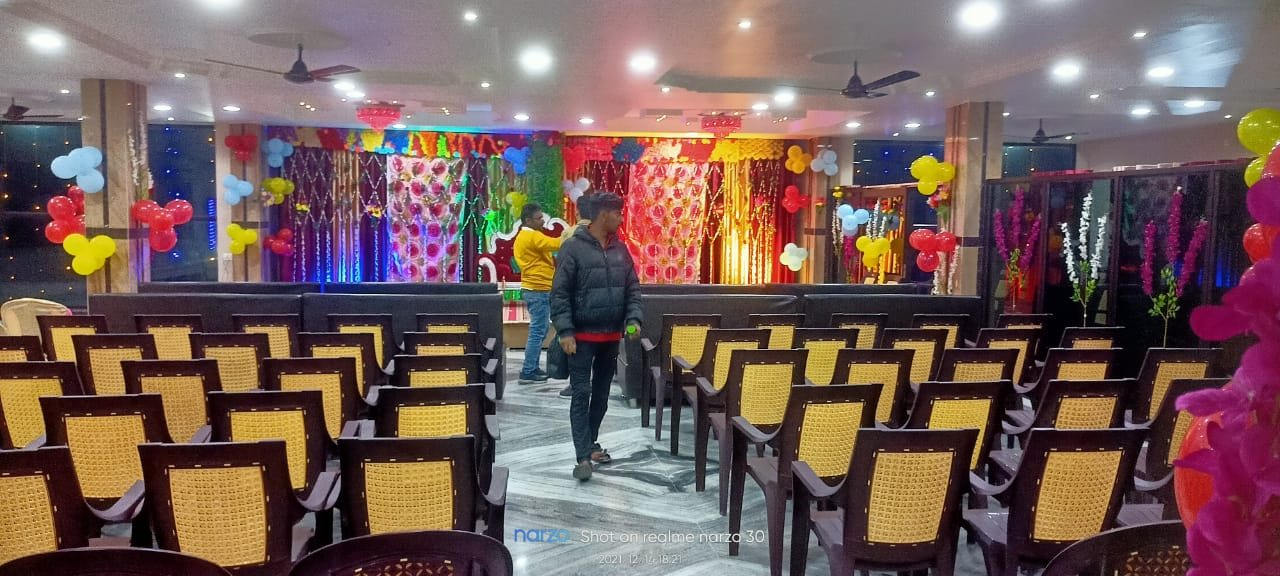
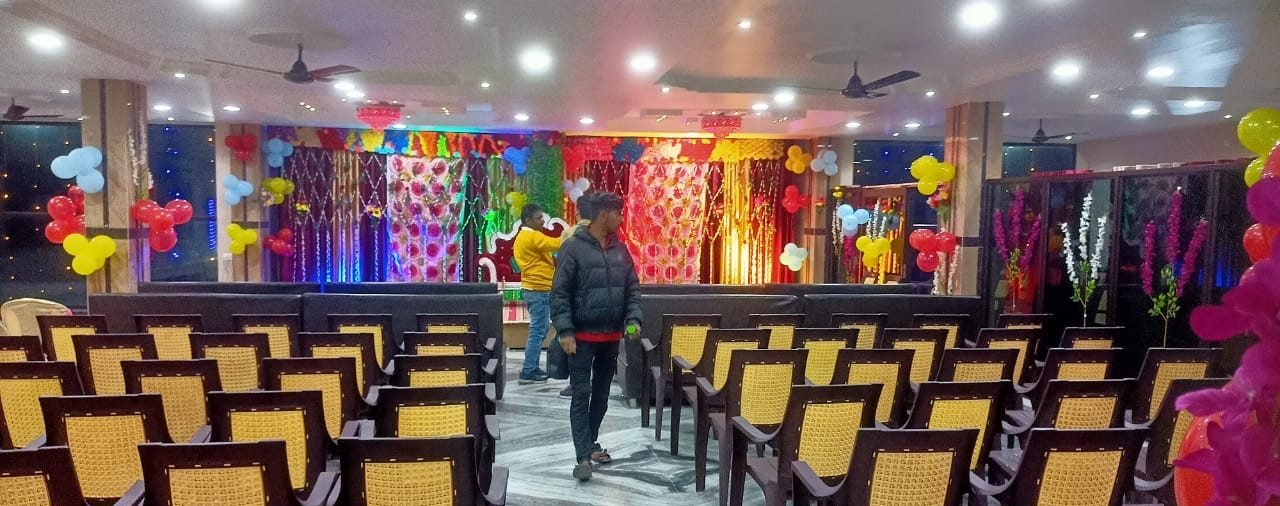
fix: crop camera watermark off banquet hall photos
- Trim 70px off the bottom of banquet-hall-1/2/3 to remove the
  "Shot on realme narzo 30" stamp
- Regenerate app/data/images.js (sizes were stale for every photo)
- Rebuild the banquet link-preview card as og/banquet-v2.jpg so
  WhatsApp and Facebook fetch the clean version; update its crop

diff --git a/app/data/images.js b/app/data/images.js
@@ -1,73 +1,73 @@
 // Generated by scripts/image-meta.py: do not edit by hand.
 export const imageMeta = {
   "/images/banquet-hall-1.jpg": {
-    "width": 1871,
-    "height": 840,
[1 lines of base64/hex data omitted]
+    "width": 1280,
+    "height": 506,
[1 lines of base64/hex data omitted]
   },
   "/images/banquet-hall-2.jpg": {
-    "width": 1870,
-    "height": 841,
[1 lines of base64/hex data omitted]
+    "width": 1280,
+    "height": 506,
[1 lines of base64/hex data omitted]
   },
   "/images/banquet-hall-3.jpg": {
-    "width": 1918,
-    "height": 820,
[1 lines of base64/hex data omitted]
+    "width": 1280,
+    "height": 477,
[1 lines of base64/hex data omitted]
   },
   "/images/banquet-stage-1.jpg": {
-    "width": 1552,
-    "height": 1013,
[1 lines of base64/hex data omitted]
+    "width": 758,
+    "height": 495,
[1 lines of base64/hex data omitted]
   },
   "/images/banquet-stage-2.jpg": {
-    "width": 1991,
-    "height": 790,
[1 lines of base64/hex data omitted]
+    "width": 1280,
+    "height": 507,
[1 lines of base64/hex data omitted]
   },
   "/images/banquet-stage-heart.jpg": {
-    "width": 1528,
-    "height": 1029,
[1 lines of base64/hex data omitted]
+    "width": 1280,
+    "height": 864,
[1 lines of base64/hex data omitted]
   },
   "/images/exterior-day.jpg": {
-    "width": 1171,
-    "height": 1343,
[1 lines of base64/hex data omitted]
+    "width": 714,
+    "height": 818,
[1 lines of base64/hex data omitted]
   },
   "/images/exterior-dusk.jpg": {
-    "width": 1540,
-    "height": 1021,
[1 lines of base64/hex data omitted]
+    "width": 1600,
+    "height": 1060,
[1 lines of base64/hex data omitted]
   },
   "/images/exterior-night.jpg": {
-    "width": 868,
-    "height": 1812,
[1 lines of base64/hex data omitted]
+    "width": 576,
+    "height": 1203,
[1 lines of base64/hex data omitted]
   },
   "/images/restaurant-hall.jpg": {
-    "width": 1518,
-    "height": 1036,
[1 lines of base64/hex data omitted]
+    "width": 1280,
+    "height": 874,
[1 lines of base64/hex data omitted]
   },
   "/images/room-double-1.jpg": {
-    "width": 1651,
-    "height": 953,
[1 lines of base64/hex data omitted]
+    "width": 1280,
+    "height": 739,
[1 lines of base64/hex data omitted]
   },
   "/images/room-double-2.jpg": {
-    "width": 1685,
-    "height": 933,
[1 lines of base64/hex data omitted]
+    "width": 1280,
+    "height": 708,
[1 lines of base64/hex data omitted]
   },
   "/images/room-double-3.jpg": {
-    "width": 1768,
-    "height": 889,
[1 lines of base64/hex data omitted]
+    "width": 1280,
+    "height": 645,
[1 lines of base64/hex data omitted]
   },
   "/images/room-family.jpg": {
-    "width": 1756,
-    "height": 895,
[1 lines of base64/hex data omitted]
+    "width": 1280,
+    "height": 654,
[1 lines of base64/hex data omitted]
   }
 };

diff --git a/app/banquet/page.js b/app/banquet/page.js
@@ -12,7 +12,7 @@ export const metadata = pageMeta({
   description:
     "Book our banquet hall in Sherghati for weddings, receptions, tilak, birthdays and corporate events, with in-house catering, décor help and rooms for guests.",
   path: "/banquet",
-  image: "/og/banquet.jpg",
+  image: "/og/banquet-v2.jpg",
 });
 
 export default function BanquetPage() {

diff --git a/scripts/share-assets.py b/scripts/share-assets.py
@@ -24,7 +24,7 @@ MARK = "SB"
 OG_CARDS = {
     "home": ("exterior-dusk", 0, 0, 1240, "Hotel, Restaurant & Banquet · Sherghati, Gaya"),
     "rooms": ("room-double-2", 0, 18, 1280, "AC, Standard & Family Rooms"),
-    "banquet": ("banquet-hall-3", 84, 0, 1042, "Wedding & Banquet Hall"),
+    "banquet-v2": ("banquet-hall-3", 151, 0, 908, "Wedding & Banquet Hall"),
     "dining": ("restaurant-hall", 0, 100, 1280, "Restaurant on GT Road"),
     "about": ("exterior-day", 0, 60, 714, "A Family-Run Hotel in Sherghati"),
     "contact": ("exterior-dusk", 640, 470, 960, "Contact & Directions · NH-19, Sherghati"),
